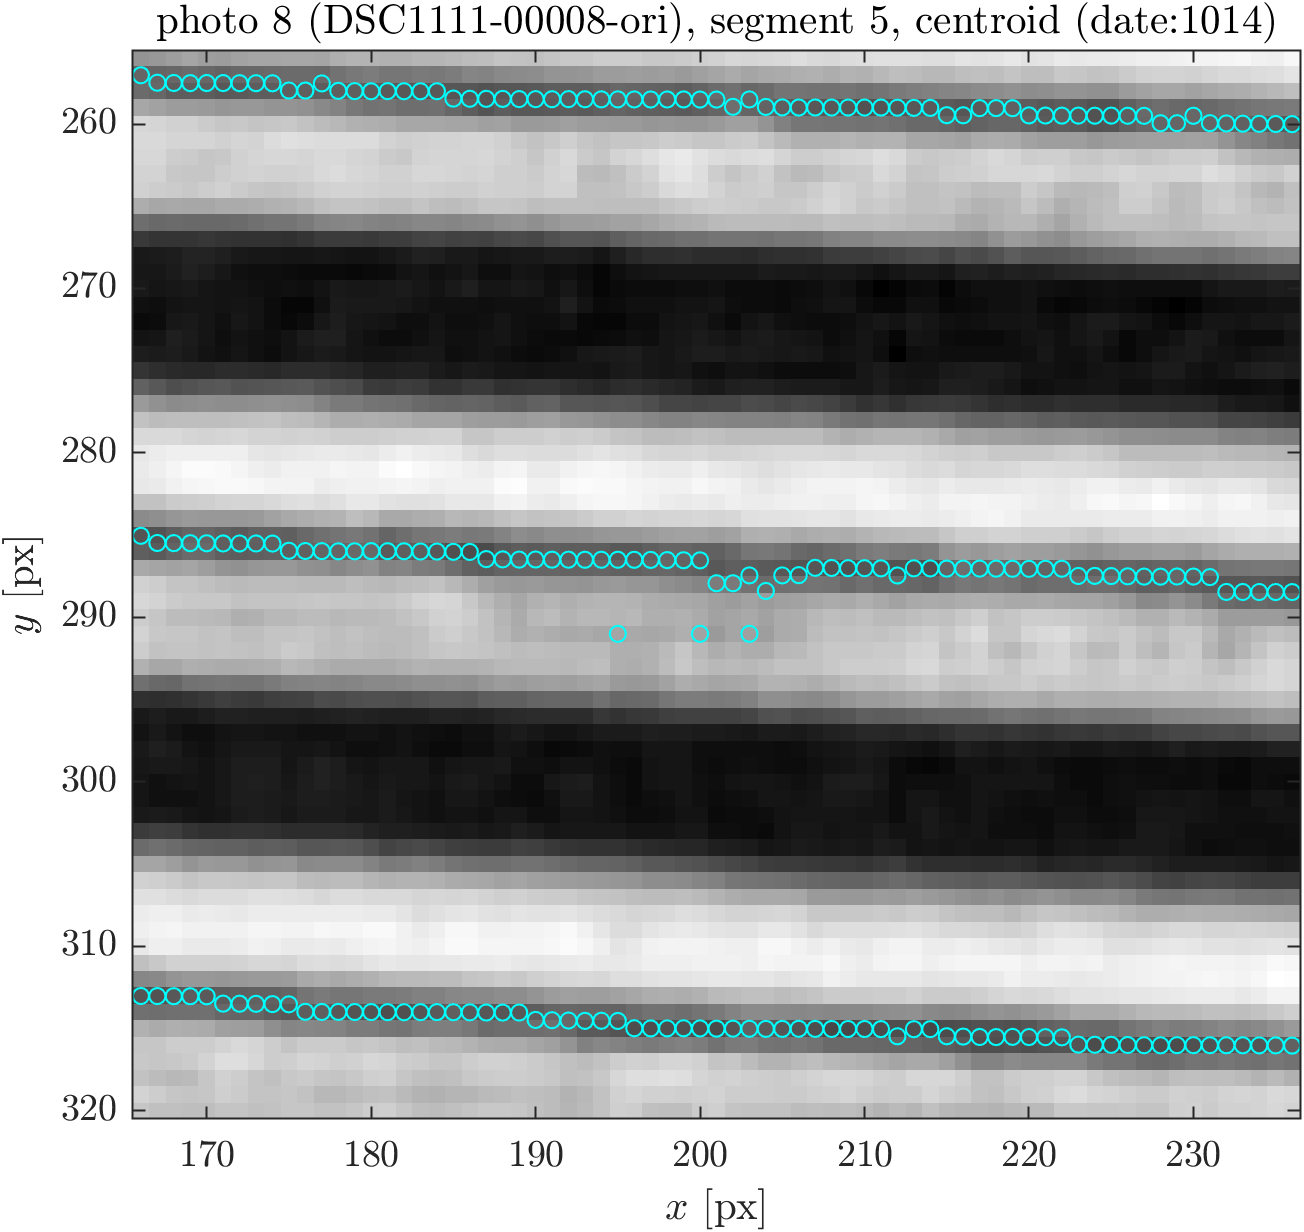
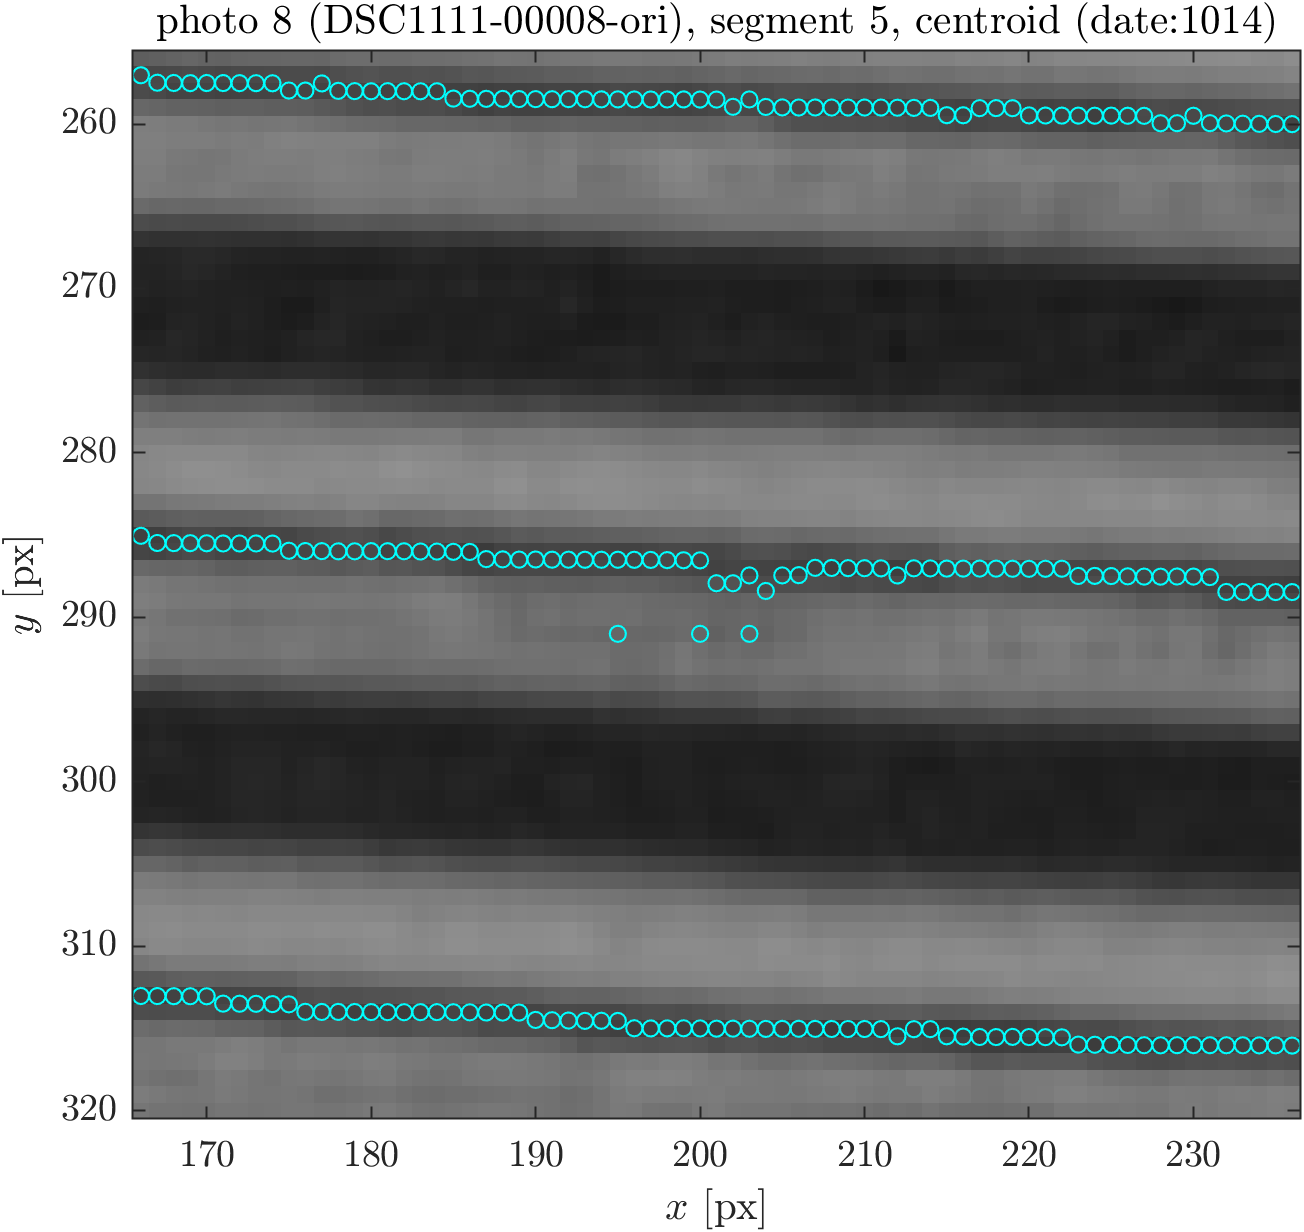
外れの原因を示す図の画像の濃淡を clim [0 255] に戻す
切り出した範囲に合わせてコントラストを変えると、撮影画像（実験データ）を改変したことになるため。

diff --git a/scripts/progress/grooveBtmOnImageTrackOutlier.m b/scripts/progress/grooveBtmOnImageTrackOutlier.m
@@ -80,9 +80,9 @@ inView = pks(:,1) >= xRange(1) & pks(:,1) <= xRange(end) & ...
 fig = createFigure([0 0 FIG_SIZE]);
 ax = axes(fig);
 imagesc(ax,img(yRange,xRange),XData=xRange([1 end]),YData=yRange([1 end]));
-% 濃淡の範囲は切り出した部分の最小〜最大に合わせる（clim [0 255] だとコントラストが低く、
-% 溝底点を引っぱった暗い点が見えにくい）
-colormap(ax,gray);
+% 濃淡の範囲は画素値の全範囲 [0 255] に固定する。切り出した範囲に合わせて
+% コントラストを変えると、実験データ（撮影画像）を改変したことになるため
+colormap(ax,gray); clim(ax,[0 255]);
 axis(ax,"image");
 hold(ax,"on");
 scatter(ax,pks(inView,1),pks(inView,2),MARKER_SIZE,"cyan","o");
